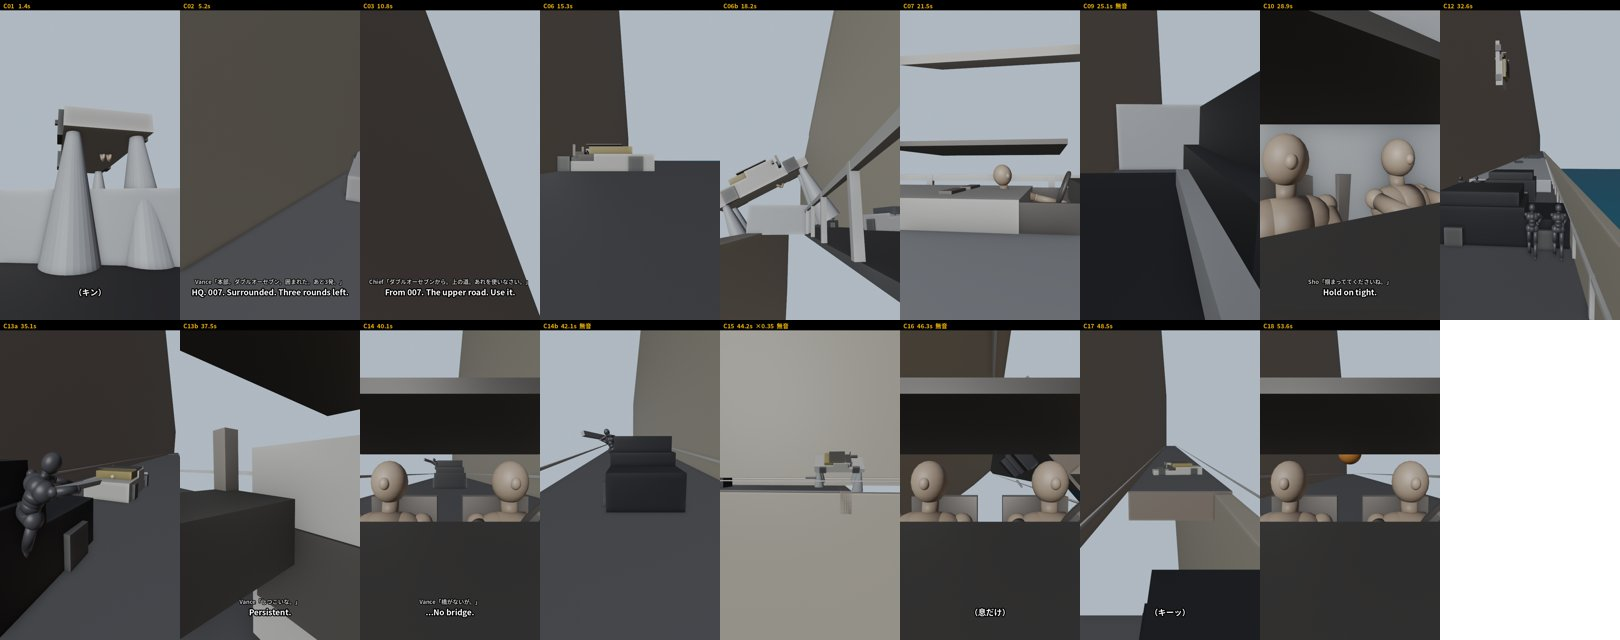
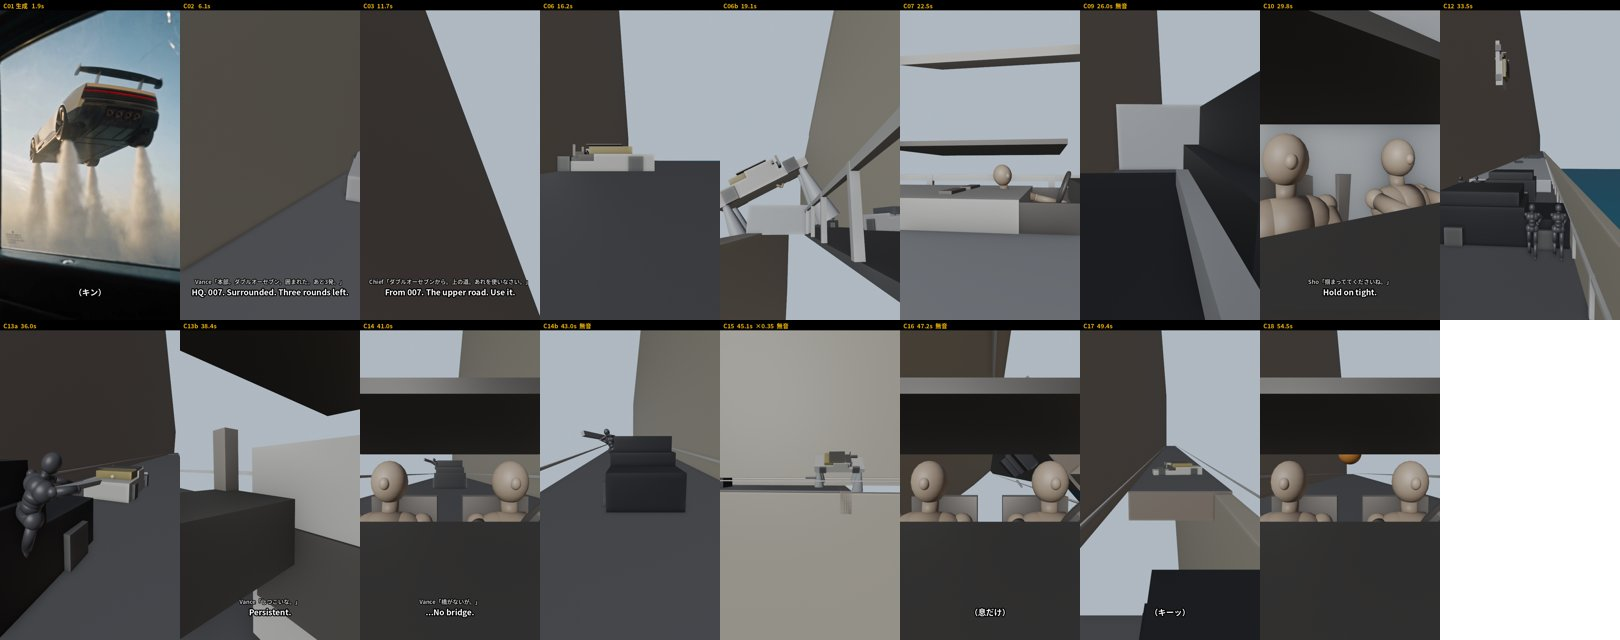
C01 v1 を生成・採用（通しの動画に生成カットを差し込む）
- 白で埋まるのが参照より 0.9 秒遅い → 要点の終わりを 4.9 に測り直し、使う範囲 1.25–5.0
- 通しは採用した生成があればそれを使う（cuts[].take）

Claude-Session: https://claude.ai/code/session_01MiY399yeWpJwjLrjjz4zjM

Changed region(s): [[0.0, 0.0, 0.1235, 0.5]]

diff --git a/previs/editor.html b/previs/editor.html
@@ -3404,12 +3404,12 @@ canvas{touch-action:none}
   "endBlack": 1.5,
   "silences": [
    [
-    23.44,
-    26.69
+    24.34,
+    27.59
    ],
    [
-    41.29,
-    47.05
+    42.19,
+    47.95
    ]
   ],
   "silenceCuts": [
@@ -3549,7 +3549,7 @@ canvas{touch-action:none}
    },
    "edit": {
     "in": 1.25,
-    "out": 4.1,
+    "out": 5.0,
     "speed": 1
    },
    "lines": [
@@ -3567,7 +3567,8 @@ canvas{touch-action:none}
      null,
      null
     ]
-   ]
+   ],
+   "take": "gen/C01_v1.mp4"
   },
   {
    "id": "C02",

diff --git a/previs/render_edit.py b/previs/render_edit.py
@@ -29,6 +29,9 @@ n = 0; screen = 0.0; strip = []
 silences = D["edit"].get("silences", [])
 for cid in D["edit"]["order"]:
     c = CUTS[cid]; e = c["edit"]; src = os.path.join(OUT, f"{cid}_frames")
+    if c.get("take"):   # 採用した生成があれば、それを 24fps・540x960 のコマにして使う
+        src = os.path.join(OUT, f"_take_{cid}"); shutil.rmtree(src, ignore_errors=True); os.makedirs(src)
+        subprocess.run(["ffmpeg", "-v", "error", "-i", os.path.join(os.path.dirname(H), c["take"]), "-vf", "fps=24,scale=540:960", os.path.join(src, "f_%04d.png")], check=True)
     frames = sorted(os.listdir(src)); count = round((e["out"] - e["in"]) / e["speed"] * FPS)
     for l in c.get("lines", []):
         if len(l) > 3 and l[3] and e["in"] - 0.01 <= l[0] < e["out"]: voice.append((screen + (l[0] - e["in"]) / e["speed"], os.path.join(OUT, "voice", l[3] + ".wav")))
@@ -36,7 +39,7 @@ for cid in D["edit"]["order"]:
         t = e["in"] + k / FPS * e["speed"]                       # time inside the cut
         im = Image.open(os.path.join(src, frames[min(len(frames) - 1, int(round(t * FPS)))])).convert("RGB")
         dr = ImageDraw.Draw(im); W_, H_ = im.size; st = screen + k / FPS
-        lab = f"{cid}  {st:4.1f}s" + ("  ×%.2f" % e["speed"] if e["speed"] != 1 else "")
+        lab = f"{cid}{' 生成' if c.get('take') else ''}  {st:4.1f}s" + ("  ×%.2f" % e["speed"] if e["speed"] != 1 else "")
         if any(a <= st < b for a, b in silences): lab += "  無音"
         dr.rectangle([0, 0, W_, 30], fill=(0, 0, 0)); dr.text((10, 4), lab, font=f_lab, fill=(242, 183, 5))
         cur = [l for l in c.get("lines", []) if l[0] <= t < l[0] + shown(l)]

diff --git a/previs/world/build_world.py b/previs/world/build_world.py
@@ -206,6 +206,8 @@ DER = json.load(open(os.path.join(H, "edit_derived.json")))
 VOICE = json.load(open(os.path.join(P, "voice", "lines.json")))["lines"]
 EDIT = {k: tuple(v) for k, v in DER["edit"].items()}
 END_BLACK = 1.5
+# 採用した生成（あれば通しの動画でグレーボックスの代わりに使う。要点の時刻は生成で測り直して shot_length.py に入れる）
+TAKES = {"C01": "gen/C01_v1.mp4"}
 # 台詞（声＝voice/lines.json の仮の声の長さ）と効果音のメモ。[t, 表示, 長さ, 声 id, 英語字幕]
 SFX = {"C01": [[2.0, "（キン）"], [3.4, "（プシュゥッ）"]], "C02": [[0.3, "数分前"]], "C06b": [[2.0, "（頂点で無音）"]], "C09": [[0.0, "（音が消える）"]],
        "C14b": [[2.5, "（ボシュッ）"]], "C16": [[1.2, "（息だけ）"]], "C17": [[1.2, "（ドン）"], [1.6, "（キーッ）"], [2.7, "（遠くでバァン）"]]}
@@ -254,7 +256,7 @@ for c in OLD["cuts"]:
     beats = BEATS.get(cid, c["beats"])
     e = EDIT[cid]
     cuts.append({"id": cid, "title": c["title"], "start": R(W[cid]), "dur": DUR.get(cid, c["dur"]), "beats": beats, "camera": cam, "view": VIEW.get(cid, {}),
-                 "edit": {"in": e[0], "out": e[1], "speed": e[2]}, "lines": LINES.get(cid, [])})
+                 "edit": {"in": e[0], "out": e[1], "speed": e[2]}, "lines": LINES.get(cid, []), **({"take": TAKES[cid]} if cid in TAKES else {})})
 # 無音はカットに結びつける（煙幕 C09、ランチャー〜回転 C14b–C16）。画面の秒は編集から計算
 def screen_at(cid, edge):
     st = 0.0

diff --git a/previs/shot_length.py b/previs/shot_length.py
@@ -22,7 +22,7 @@ LEAD = {"new": 0.6, "known": 0.4, "cont": 0.25}; TAIL = {"payoff": 0.5, "flow": 
 
 # cut: lead class, essential span [start, end] (cut-local), what must be seen, tail class, lines [(voice id, start)], speed, note
 SPEC = {
- "C01": ("cont", [1.5, 4.0], "顔が右へ→白い車が降りてくる→白が窓を埋めきる(4.0)", "flow", [], 1,
+ "C01": ("cont", [1.5, 4.9], "顔が右へ→白い車が降りてくる→白が窓を埋めきる(生成 v1 で実測 4.9)", "flow", [], 1,
          "冒頭は掴み。前方の銃火は C02 で見せ直すので 1 注視ぶんだけ。白で切る＝次への転換"),
  "C02": ("new", [1.2, 4.4], "8人と4台の包囲(寄り始め 1.2 までに読む)→マガジンの3発(3.6–4.4)", "flow", [("C02", 0.4)], 1,
          "台詞の「あと3発」を弾が見えている間に終える"),

diff --git a/docs/05_log.md b/docs/05_log.md
@@ -16,11 +16,13 @@
 | 10/17 | C12 v4（タイムライン方式） | 35 | ほぼ指定通り。配置の嘘が残る |
 | 10/17 | Blender グレーボックス C12 v1→v2（3D ビューア公開） | 0 | この環境の bpy でレンダー。1 分 |
 | 10/17 | C12 v5（参照動画＋エレメント） | 35 | 配置・動きが参照通り。採用版 |
-| | **累計** | **約 225**（返却除く） | 残り約 975 |
+| 10/18 | C01 v1（3 役分担の型。参照＝世界の時間から再レンダーした C01_ref.mp4、@VanceGT @RoadsterW4 @CliffRoadDay） | 35 | 参照動画は GitHub→jsDelivr 経由で取り込み |
+| | **累計** | **約 260**（返却除く） | 残り約 940 |
 
 ## 既知のバグ・つまずき（運用）
 
 - Higgsfield の画像ビューアは Esc で閉じないことがある。右上 × で閉じる。誤クリックで「再作成」が走ると 1 クレジット
+- 参照動画の取り込み：リポジトリに置いた mp4 を jsDelivr（cdn.jsdelivr.net/gh/…）から fetch → `HTMLInputElement.prototype.click` を一度だけ差し替えて、「ファイルをアップロード」で作られる input に DataTransfer で流す（raw.githubusercontent.com は Higgsfield から fetch できない）
 - 「生成」はボタンの ref を取ってクリック（座標クリックは外れることがある）
 - `@` 候補の並びが変わる。送信前にチップ名を確認
 - 内蔵ブラウザは 1400×900 のビューポートで Higgsfield の PC レイアウトになる。終わったら desktop に戻す

diff --git a/prompts/C01.md b/prompts/C01.md
@@ -20,3 +20,12 @@ t4.0-5.0: the white vapor rolls over the side window until the whole frame is so
 [LOOK] late afternoon warm light, clear sky, real interior textures, handheld micro-shake of a seated man, fine film grain, vertical 9:16, no lens flare, no light streaks.
 [DO NOT] no flames, no blue glow, no sparks from the jets; the driver's face is never seen; no cuts; no text or logos; the white car never touches the camera car.
 ```
+
+## v1 の結果（10/18、35 クレジット）— 採用
+
+コマ割り：gen/C01_v1_sheet.jpg（上＝生成、下＝グレーボックス、0.5 秒ごと）、gen/C01_v1_tail.jpg（白で埋まる所）
+
+- 合っている：Vance の主観・手袋の手と拳銃、1.1 秒の着弾でひびが広がる、1.5〜2.0 秒で右の窓へ振り向く、@RoadsterW4 の底面→四隅から白い蒸気→回りながら側面が窓いっぱい、最後は白
+- ずれ：白で埋まりきるのが 4.9 秒（参照は 4.0 秒）。降りる動きは参照より約 0.9 秒ゆっくり
+- ずれ：0〜1 秒のフロントガラスは最初ひびがない（[CONTINUITY] の「ひびだらけ」が負けた）。使う範囲（1.25 秒〜）では着弾後でひびがあるので問題なし
+- 判断：撮り直さず採用。4.1〜4.9 秒は白い車の側面とホイールのアップで情報がある。尺の規則で要点の終わりを 4.9 に測り直し → 使う範囲 1.25–5.0（3.75 秒）

diff --git a/docs/03_prompting.md b/docs/03_prompting.md
@@ -83,6 +83,12 @@ DO NOT: <動作の禁止リスト>.
 [DO NOT] 動作として禁止すること（カメラ目線、停止、噴射…）。外観の禁止はエレメント側で解決する
 ```
 
+### C01 v1（10/18、3 役分担の型で初めての生成）
+- 参照のカメラ（主観の首振り）・タイミング（着弾・振り向き）・車の降り方はほぼ参照通り。エレメントの外観（ウェッジ、スワンネックの羽、赤い一文字、ノズル 4 本）も保たれた
+- 参照の中の「白い箱（蒸気）」が画面を埋める時刻は 0.9 秒遅れた。**煙・蒸気の量と速さは参照より控えめに出る**。白で終わらせたいなら [ACTION] の時刻を 0.5 秒ほど前に書く
+- [CONTINUITY]「最初からひびだらけ」は負けた（ガラスはきれいに始まり、着弾でひびが入る）。状態の継続は文章だけでは弱い → 最初の 1 フレームを画像で渡す（開始フレーム）方法を次に試す
+- 拳銃・撃っている男たち（"shooting, small bright flashes"）で NSFW 判定は出なかった
+
 ## まだ分かっていないこと
 
 - 動画リファレンス（グレーボックス）を入れたとき、エレメントの見た目がどこまで保たれるか
